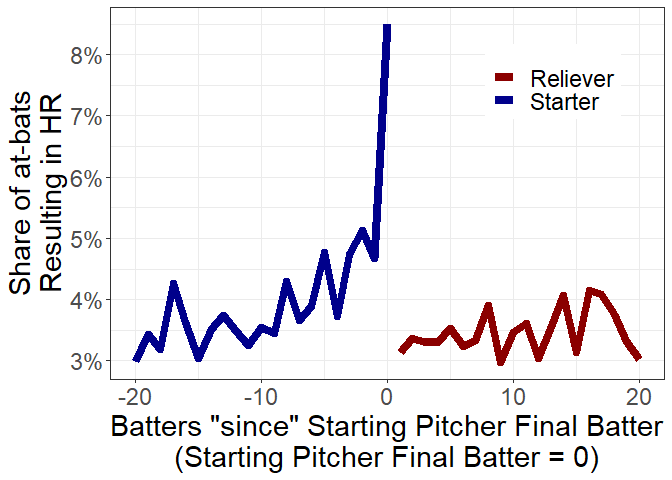
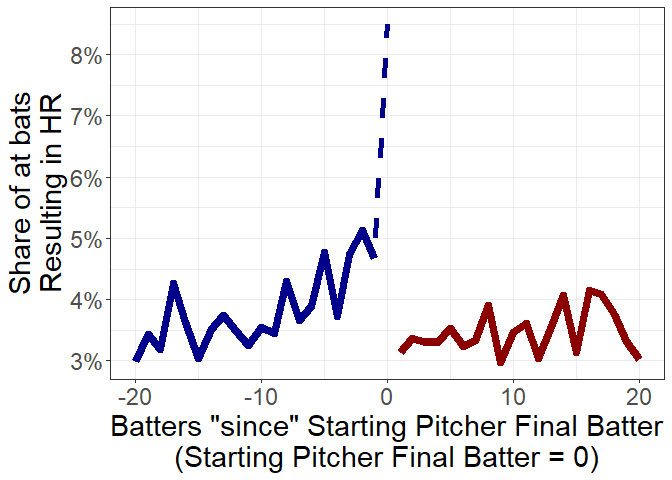
title

diff --git a/docs/_posts/2022-09-06-switching-pitchers-and-reducing-homeruns.md b/docs/_posts/2022-09-06-switching-pitchers-and-reducing-homeruns.md
@@ -4,19 +4,21 @@ Here is a plot that has been on my mind for a while:
 
 It shows the mean number of home runs relative to the last batter a
 starting pitcher faces, with a few caveats. The first caveat is that I
-limit to *mid-inning* **pitching changes** but I also INCLUDE all other
-at bats that were not pitching changes. So the at bat that is 5 batters
-before the starting pitcher’s final batter is inlcuded regardless of
-whether it was the final out of the inning or not, but if a pitching
-change happens in between innings, I don’t include that starting
-pitcher’s final batter faced. The idea here is that I am most interested
-in those mid-inning pitching changes. I want to know why managers pulled
-their starter mid inning, and I don’t want to cut out the earlier
-at-bats that may have ended an inning.
+limit to managers who managed at least 50 games that season. This will
+come back later on, but the idea is to get rid of managers who only
+managed one or two games that season.
 
-The second caveat is that I limit to managers who managed at least 50
-games that season. This will come back later on, but the idea is to get
-rid of managers who only managed one or two games that season.
+The second caveat has to do with the dotted line part of the figure. The
+solid lines include *all* at bats for the given “batters since starting
+pitcher final batter”. But the dotted line for the final batter faced by
+the starter *excludes* final batters where the at bat was the last at
+bat of the inning. In other words, the dashed line only includes
+situations where the pitcher was pulled *mid-inning*. (If you want to
+know the percent of at-bats that were the final at bat of the inning as
+well as the final batter faced by the starter…it’s very close to 0%
+since the final at bat of an inning is never a home run unless it’s a
+walk off and starters rarely make it to the final innings of a game any
+more).
 
 The idea here is that starting pitchers who are pulled mid-inning give
 up a home run on the last batter they face more frequently than on the
